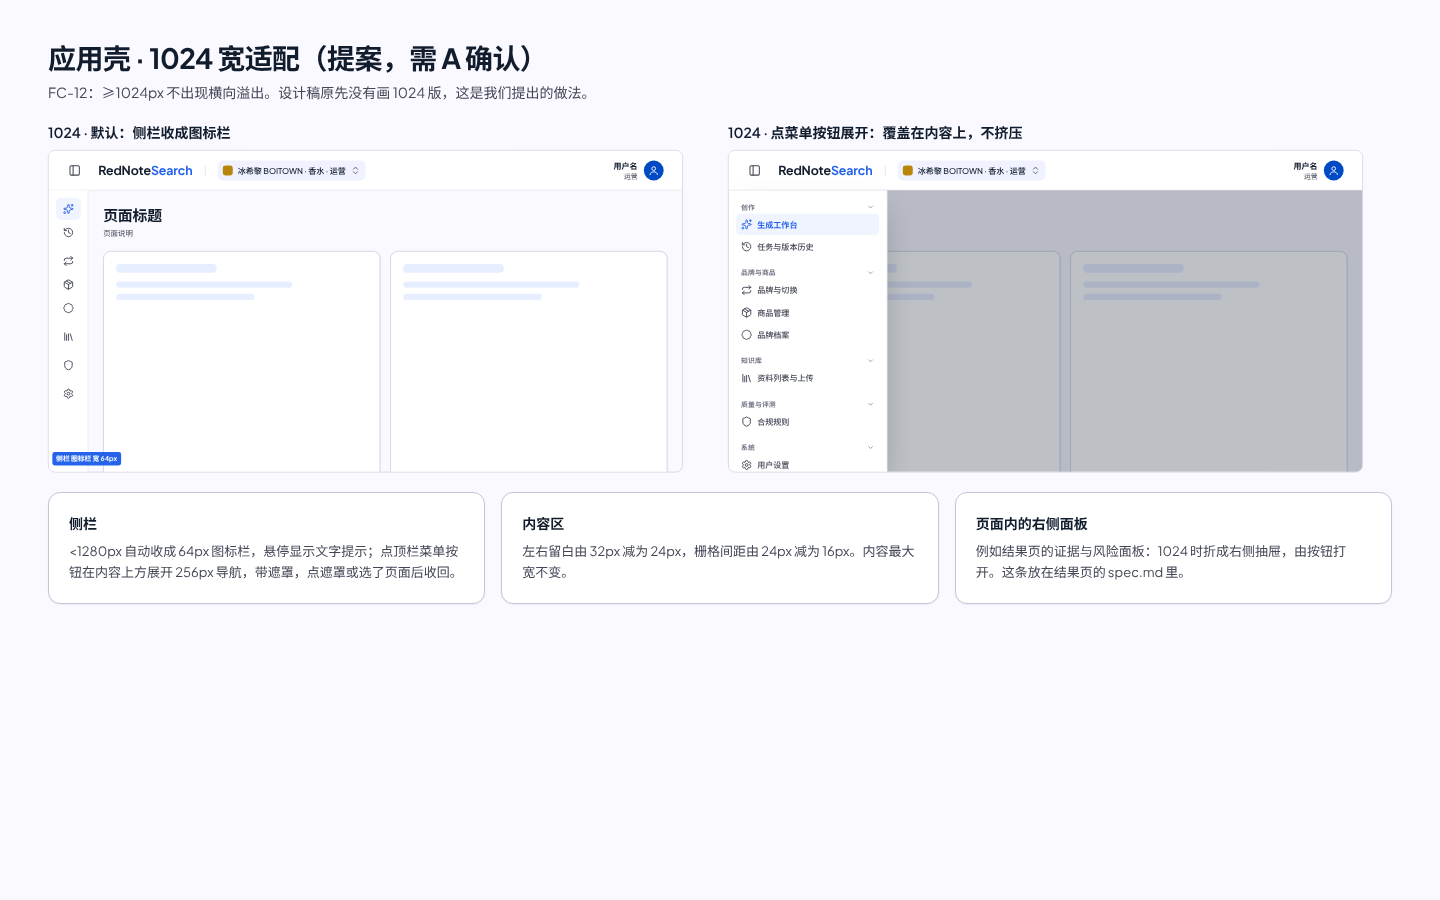
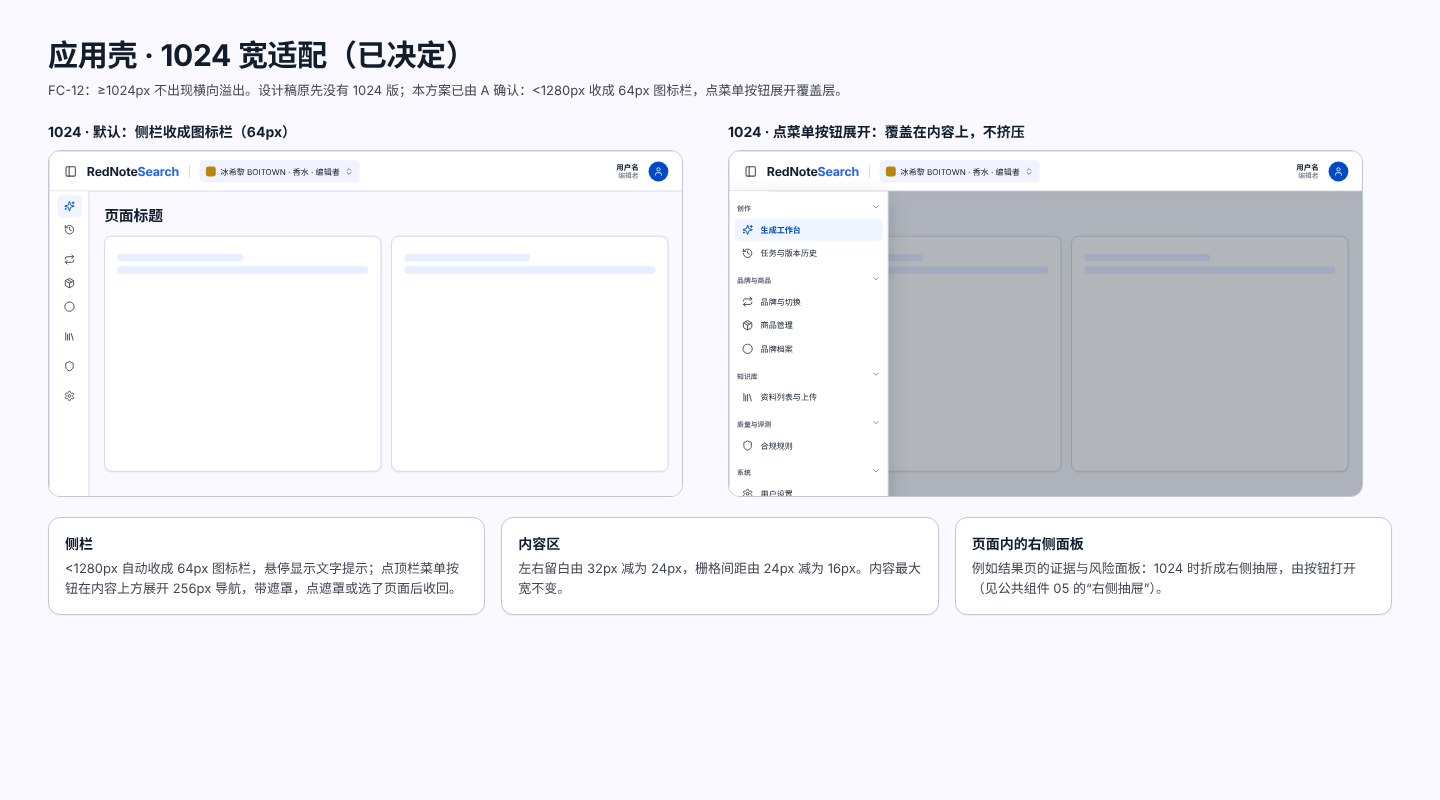
design: move revised first batch into docs/design, fix stage bar and reason notes

diff --git a/docs/design/common-components/spec.md b/docs/design/common-components/spec.md
@@ -8,28 +8,50 @@
 ## 状态清单
 | 组件 | 图片 | 状态 |
 |---|---|---|
-| 按钮、输入、文本域、下拉、复选单选、标签选择 | 01-common-controls.png | 默认、悬停、焦点、禁用、加载、错误、超限 |
-| 表格与分页、卡片、徽标、提示条、轻提示、加载/空/错误 | 02-common-data-feedback.png | 含状态徽标按技术文档表 4-4 |
-| 弹窗（可确认、被拒、加载、失败）、401、403、404 | 03-common-dialogs-global.png | 403 整页含返回入口，不退出登录 |
-| 上传 | 04-common-upload.png | 空闲、拖入、上传中、长时间解析、FILE_TOO_LARGE、UNSUPPORTED_FILE_TYPE、PARSE_FAILED、完成 |
+| 按钮、输入、文本域与字数组件、下拉、复选单选、标签选择 | 01-common-controls.png | 默认、悬停、焦点、禁用、加载、错误、超限；字数示例：标题加权、正文码元、标签计数 |
+| 表格与分页、卡片、徽标、提示条、轻提示、加载/空/错误 | 02-common-data-feedback.png | 含状态徽标按技术文档表 4-4；“系统判定支持”为浅蓝 |
+| 弹窗（可确认、被拒、加载、失败）、401、403、404 | 03-common-dialogs-global.png | 被拒弹窗只显示可读原因；403 整页含返回入口，不退出登录 |
+| 上传 | 04-common-upload.png | 空闲、拖入、上传中、长时间解析、FILE_TOO_LARGE、UNSUPPORTED_FILE_TYPE、PARSE_FAILED、完成、CSV/JSON 变体（≤1 MB） |
+| 开关、日期选择、标签页、右侧抽屉、阶段进度条、表格筛选栏、带原因的停用确认弹窗、请求编号复制 | 05-common-more.png | 默认、焦点、禁用或错误等相关状态 |
 
 ## 区域与字段
-- 确认弹窗被拒原因：错误响应 `INVALID_STATE` 的 `details.current_state`、`details.codes`、`details.reasons[]`；不自行编造原因。
-- 错误态：错误信封 `{error:{code,message,details,request_id}}`；请求编号未知时显示"—"。
+- 确认弹窗被拒原因：错误响应 `INVALID_STATE` 的 `details.current_state`、`details.codes`、`details.reasons[]`。**界面只显示 `details.reasons[]` 的可读文字；`codes`（如 `unconfirmed_claims`、`not_latest_version`）只用来让前端判断按钮状态，不展示给用户。** 不自行编造原因。
+- 错误态：错误信封 `{error:{code,message,details,request_id}}`；请求编号未知时显示“—”。
 - 上传限制：PDF、DOCX ≤50 MB；md、txt、csv ≤5 MB；`FILE_TOO_LARGE` 的 `details.limit_bytes`；`UNSUPPORTED_FILE_TYPE` 的 `details.allowed`；`PARSE_FAILED`。
-- 状态徽标的文案与色调取自技术文档表 4-4；"人工确认（非系统验证）"按 #32。
+- 状态徽标的文案与色调取自技术文档表 4-4；“人工确认（非系统验证）”按 #32。
+
+## 字数组件（自定义计数）
+字数组件不能只做“字符数 / 上限”，计数方式由调用方传入：
+- **标题**：按加权长度，ASCII 可打印字符计 0.5，其余计 1（表情符号按 UTF-16 码元逐个计，计 2），上限 20，显示如 `18.5 / 20`（ADR-004）。
+- **正文**：去换行后的 UTF-16 码元数，上限 1000；标签的可见字符计入正文。显示如 `412 / 1000`。
+- **标签**：个数，上限 10，显示 `已选 N / 10`；另有必含词标签选择（≤20 条）。
+- 超限变红并带“超出上限”文字，不截断（与发布页行为一致，ADR-004 实测）。图 01 的示例：标题 `12.5 / 20`、超限 `21 / 20`、正文 `412 / 1000`、标签 `已选 2 / 10`。
+
+## 新增组件说明（05 图）
+- **开关**（启用/停用规则）：关闭 = 停用，不是删除；无权限时禁用并写出原因；提交中显示“正在保存…”。
+- **日期选择**（规则的生效与失效日期）：输入框 + 日历浮层；失效日期不能早于生效日期（错误态文字提示）。
+- **标签页**：选中下划线加主色字；左右键切换；可带数量。
+- **右侧抽屉**（结果页证据与风险面板）：≥1280 为页内右栏，1024 折成抽屉；点遮罩、Esc、关闭按钮收起，焦点回到打开按钮。
+- **阶段进度条**：三段（排队、生成中、检查中）由 `flow_status`（`queued`、`generating`、`checking`）决定；`progress.stage`（`retrieving`、`generating`、`evidence`、`compliance`、`rewriting`，或 `null`）只作为当前段下面的小字（检索资料、生成中、核对依据、风险提示、改写中），为 `null` 时不显示小字；轮询更新，只显示阶段，不显示假百分比；失败时显示原因与请求编号。
+- **表格筛选栏**：搜索 + 下拉筛选 + 清除筛选；已选条件显示为可移除标签；无结果显示空态。
+- **带“原因”输入的停用确认弹窗**（停用资料、停用规则）：原因必填，为空时“停用”禁用，提交时为空显示错误；说明“停用不是删除”。**待后端补 `reason` 字段**（可选，≤500 字，写进审计；目前 `POST /knowledge-documents/{id}/deactivate` 与 `PATCH /compliance-rules/{id}` 都没有）；在此之前界面先不收集原因，图按“原因必填”画，作为目标稿。
+- **请求编号“复制”小组件**：默认、悬停、焦点、复制成功、复制失败、编号未知（无复制按钮）。
 
 ## 交互
 - 表单提交中按钮显示加载并不可再点。
-- 文本域超限变红但不截断（与发布页行为一致，ADR-004 实测）。
 - 仅 401 退出登录；403、404 不退出。
-- 错误态带重试；解析大文件要有长时间等待说明，不显示假进度。
+- 错误态带重试。
+- **长时间解析**：知识库上传和 F12 都是同步的，请求一直等到解析和嵌入完成才返回，**没有“解析中”状态可轮询，也没有后台任务**。界面提示“解析大文件可能需要几分钟，请保持本页面打开，直到完成”；不写“自动更新”，不显示假进度。
 
 ## 用到的组件与 token
 本批即定义这些组件；颜色、字号、间距只引用 design-tokens 里的名字。
 
-## 与契约或约束不一致的地方
-1. 上传"解析中"状态是否由接口返回、是否轮询，契约没写清，请 A 确认。
-2. 确认按钮在前端已知条件不满足时禁用并列出原因（#32）；服务端返回 `INVALID_STATE` 时弹出兜底弹窗。两者的文案需 A 确认。
-3. 焦点样式是提案。
-4. 我没有实际上传文件，也没有调用任何接口；上限与错误码取自契约文字。
+## 已决定的事项
+1. “解析中”是否由接口返回、是否轮询：**不返回、不轮询**（A 已确认）。
+2. 确认按钮在前端已知条件不满足时禁用并列出原因（#32）；服务端返回 `INVALID_STATE` 时弹出兜底弹窗，只显示可读原因。
+3. 焦点样式（2px 主色外框；输入框 3px 浅蓝光圈）A 已同意。
+
+## 未验证的事项
+1. `progress.stage` 各值与三段 `flow_status` 的对应关系以契约为准，我没有逐值核对。
+2. 停用原因的接口字段尚未存在（见上）。
+3. 我没有实际上传文件，也没有调用任何接口；上限与错误码取自契约文字。CSV/JSON 变体的错误码待 P1 契约，细则见 `docs/P1_PLAN.md` 第 6 节。

diff --git a/docs/design/app-shell/spec.md b/docs/design/app-shell/spec.md
@@ -2,36 +2,42 @@
 
 - 对应需求：技术文档 4.2、4.3、4.3.1；TC-F01（导航按角色）、FC-12（≥1024 不横向溢出）
 - 路由：全局布局（`_layout.tsx`、`components/Sidebar` 归 A）
-- 角色与权限：见 03 图中"菜单项与可见条件"表
+- 角色与权限：见 03 图中“菜单项与可见条件”表
 - 负责人：B（设计）；A + AI 助手（实现）
+
+## 角色名称（统一）
+界面里一律写“编辑者 / 品牌管理员”（对应契约 `editor` / `admin`）。平台管理员（`is_superuser`）在用户菜单里另加“平台管理员”标签。顶栏、品牌切换器、用户菜单均已按此修改。
 
 ## 状态清单
 | 状态 | 图片 | 说明 |
 |---|---|---|
 | 1440 宽全景 | 01-app-shell-1440.png | 标注顶栏高 64px、侧栏宽 256px、边距 32px、间距 24px、内容最大宽 1280px |
-| 1024 宽 | 02-app-shell-1024.png | 侧栏收成 64px 图标栏，点菜单按钮展开覆盖层。**提案，待 A 确认** |
-| 导航状态 | 03-app-shell-nav-states.png | 编辑者 8 项、品牌管理员 11 项、平台管理员（无品牌）4 项；折叠、选中、悬停、焦点、长名称 |
-| 品牌切换器 | 04-app-shell-brand-switcher.png | 展开、加载、无品牌、失败、切换中 |
-| 用户菜单 | 05-app-shell-user-menu.png | 用户名与邮箱、当前品牌角色、用户设置、退出登录；本图为 HTML 示意，与 Stitch 里的用户菜单屏内容一致处以本图为准 |
+| 1024 宽 | 02-app-shell-1024.png | 侧栏收成 64px 图标栏，点菜单按钮展开覆盖层。**已决定（A 已同意）** |
+| 导航状态 | 03-app-shell-nav-states.png | 编辑者 8 项、品牌管理员 11 项、平台管理员（无品牌）4 项；折叠、选中、悬停、焦点、长名称；用户管理路由为 `/admin` |
+| 品牌切换器 | 04-app-shell-brand-switcher.png | 展开、加载、无品牌（普通成员）、无品牌（平台管理员，含“创建品牌”）、失败、切换中 |
+| 用户菜单 | 05-app-shell-user-menu.png | 用户名与邮箱、当前品牌角色、用户设置、退出登录；平台管理员版本另有“平台管理员”标签。本图为 HTML 示意，与 Stitch 里的用户菜单屏内容一致处以本图为准 |
 | 组合示例 | 06-app-shell-composition-workbench.png | 用生成工作台（空闲）说明壳、token、公共组件如何组合；选项是占位，字段以契约为准 |
 
 ## 区域与字段
 - 品牌名与角色：`GET /brands` 每项的 `name`、`role`。
 - 当前用户：`GET /users/me` 的 `full_name`、`email`、`is_superuser`。
 - 导航分组与顺序：技术文档表 4-3。导航不渲染无权限的项（不是置灰）。
-- 错误的请求编号来自错误响应的 `request_id`，未知时显示"—"。
+- 错误的请求编号来自错误响应的 `request_id`，未知时显示“—”。
 
 ## 交互
 - 品牌切换后，导航按新品牌里的 `role` 重新计算；当前页若无权访问，显示 403 页并给返回入口。
-- 平台管理员不是品牌成员时，顶栏显示"未选择品牌"，导航只显示品牌与切换、合规规则、用户设置、用户管理（A 已核对）。
-- 分组标题可折叠；&lt;1280px 侧栏收成图标栏。
+- 无品牌：普通成员显示“请联系品牌管理员把你加入品牌”；平台管理员显示“创建品牌”入口（对应 `POST /brands`，仅平台管理员）。
+- 平台管理员不是品牌成员时，顶栏显示“未选择品牌”，导航只显示品牌与切换、合规规则、用户设置、用户管理（A 已核对）。
+- 分组标题可折叠；<1280px 侧栏收成图标栏。
 
 ## 用到的组件与 token
 见 design-tokens 与 common-components；本批没有在页面里写色值之外的新值。
 
+## 已决定的事项
+1. 1024 方案：已决定（<1280px 收成 64px 图标栏，点菜单按钮展开覆盖层）。
+2. 用户管理：路由用模板已有的 `/admin`，仅平台管理员可见。
+3. 用户菜单里“当前品牌里的角色”一行保留。
+
 ## 与契约或约束不一致的地方
-1. 合规规则放在"质量与评测"组（技术文档表 4-3），设计稿现有屏幕里写成单独的"合规"组，请 A 确认。
-2. 用户管理的路由与页面契约未定（`/admin/users` 是占位）。
-3. 品牌切换器的空态、失败文案是占位，待 A 确认。
-4. 1024 方案不在原设计稿内，是我们提的。
-5. 用户菜单里"当前品牌里的角色"一行是否需要，请 A 确认。
+1. 合规规则放在“质量与评测”组（技术文档表 4-3），设计稿现有屏幕里写成单独的“合规”组，请 A 确认。
+2. 品牌切换器的空态、失败文案是占位，待 A 确认。

diff --git a/docs/design/design-tokens/spec.md b/docs/design/design-tokens/spec.md
@@ -8,21 +8,34 @@
 ## 状态清单
 | 内容 | 图片 | 说明 |
 |---|---|---|
-| 语义色、徽标、状态映射 | 01-design-tokens-colors.png | token 名取自设计稿导出的 Tailwind 配置；设计稿里直接写色值的，页面里"建议补名字"一栏 |
-| 字体、间距、圆角、阴影、控件尺寸 | 02-design-tokens-type-space.png | 数值取自设计稿 code.html |
+| 语义色、徽标、状态映射 | 01-design-tokens-colors.png | token 名取自设计稿导出的 Tailwind 配置；设计稿里直接写色值的，页面里“建议补名字”一栏 |
+| 字体、间距、圆角、阴影、控件尺寸 | 02-design-tokens-type-space.png | 数值取自设计稿 code.html；字体按“落地用系统字体栈”标注 |
 
 ## 区域与字段
-- 全部数值来自 Stitch 导出的 `code.html` 与 Tailwind 配置，不是新设计。落地以 `index.css` 为准。
-- 状态标签与颜色对应关系见技术文档表 4-4；新增的"人工确认（非系统验证）"按 #32，色调为中性蓝灰，是**提案**。
+- 全部数值来自 Stitch 导出的 `code.html` 与 Tailwind 配置，不是新设计。落地以 `index.css` 为准，由 A 映射到前端现有的 shadcn 变量（`--background`、`--primary` 等），不改名。
+- `primary #004ac6` 标为“链接文字色”，`primary-container #2563eb` 标为“主按钮色”，避免两个名字混用。
+- 辅助文字与占位符的 `outline` 由 `#737686` 加深为 `#5f6372`。我们没有实测对比度，不写“已通过无障碍检查”；只给出调整后的值，**待实现时用工具核对**。
+- 状态标签与颜色对应关系见技术文档表 4-4。`system_supported`（“系统判定支持”）改为浅蓝（soft-blue：文字 `#1E40AF`，底 `#DBEAFE`），不用绿色，旁边保留“非事实保证”提示；`ready_to_copy`（“可复制（运营已确认）”）保留绿色；“人工确认（非系统验证）”按 #32，中性蓝灰。
 - 场景图标底色只用于场景卡片 32px 图标块。
 
+### 状态徽标映射（改动处）
+| 枚举 | 标签 | 色调 |
+|---|---|---|
+| `checks_completed` | 检查已完成，请查看结果 | 中性蓝灰 |
+| `evidence: system_supported` | 系统判定支持 | 浅蓝（原为绿色，已改）；旁附“非事实保证” |
+| `ready_to_copy` | 可复制（运营已确认） | 绿色（保留） |
+| `human_confirmed` | 人工确认（非系统验证） | 中性蓝灰 |
+
+## 字体（已决定）
+落地用系统字体栈：`system-ui, -apple-system, "Segoe UI", "PingFang SC", "Microsoft YaHei", "Noto Sans CJK SC", sans-serif`。设计稿里的 Plus Jakarta Sans **暂不引入**（demo 需离线运行、不新增依赖）；设计稿的视觉保留，字号、行高、字重不变。
+
 ## 交互
-无。焦点样式（2px 主色外框；输入框 3px 浅蓝光圈）是**提案**，设计稿原来没有统一规定。
+无。焦点样式（2px 主色外框；输入框 3px 浅蓝光圈）A 已同意。
 
 ## 用到的组件与 token
 本页即 token 清单。
 
-## 与契约或约束不一致的地方
-1. 设计稿自带的 `DESIGN.md` 文字描述（页面底色、边框色、主按钮渐变、更轻的阴影）与实际屏幕用色不同。本页**以实际屏幕为准**，请 A 确认哪一套是基线。
+## 已决定的事项
+1. 颜色基线：**以实际屏幕为准**（`#f9f9ff`、`#c3c6d7`、`#2563eb` 实心），不用 `DESIGN.md` 里的渐变和另一套色值。
 2. 品牌色块金色只用于品牌切换器的 16px 色块，不作为通用品牌色。
-3. 没有实测过无障碍对比度，没有跑过任何脚本；颜色值是读取导出文件所得。
+3. 没有跑过对比度检查脚本；颜色值读取自导出文件，调整后的值待实现时用工具核对。
